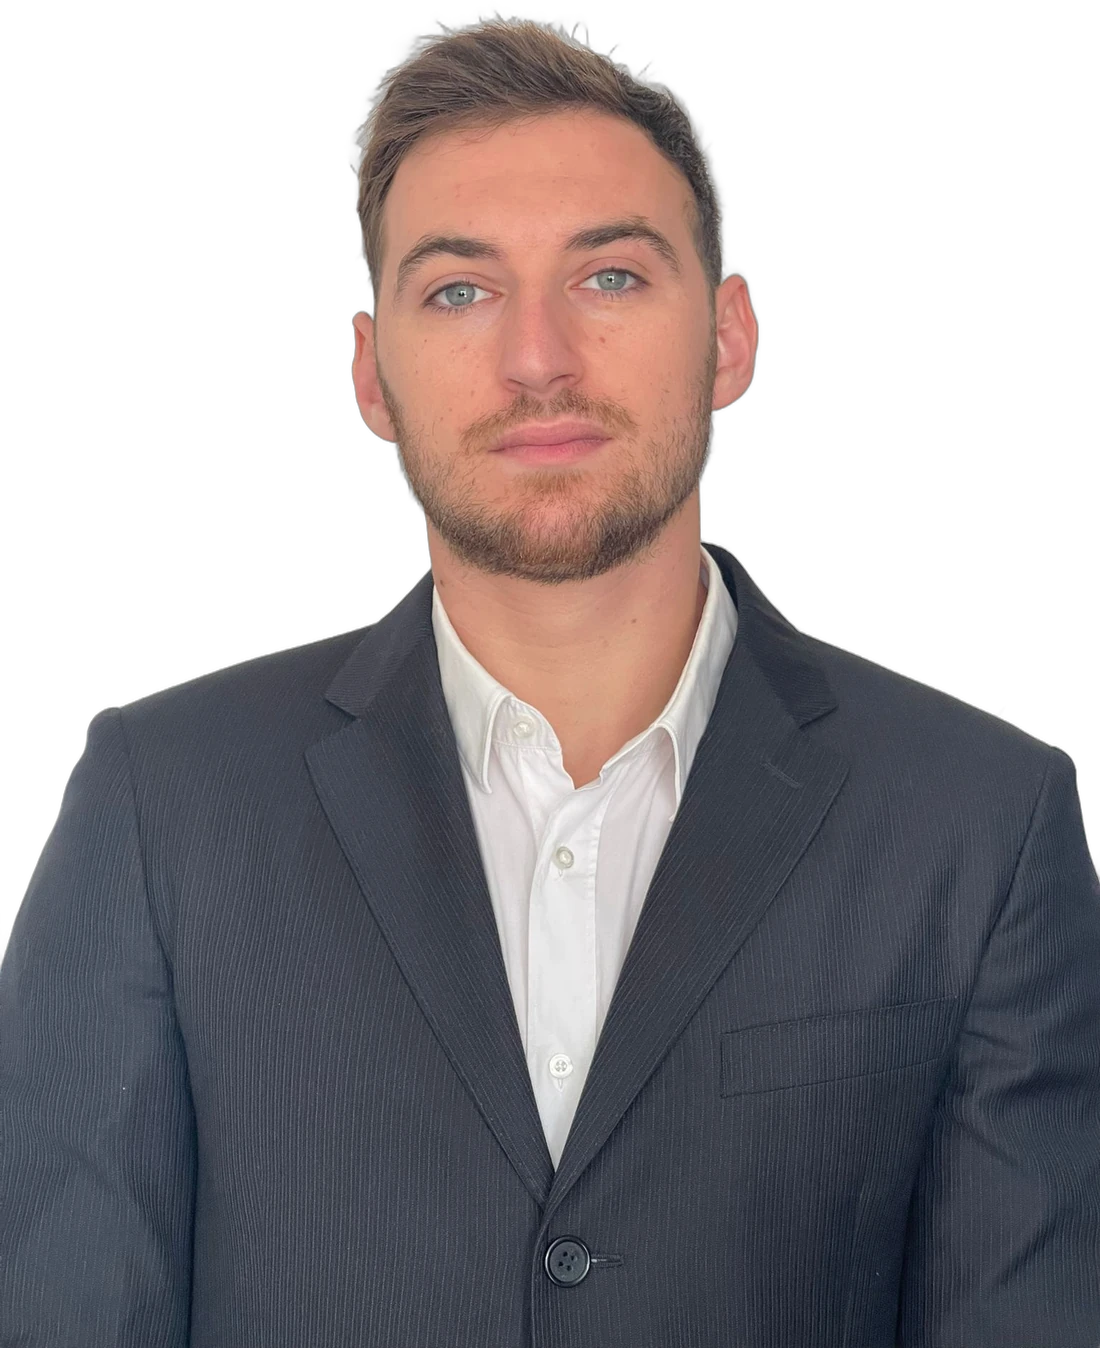
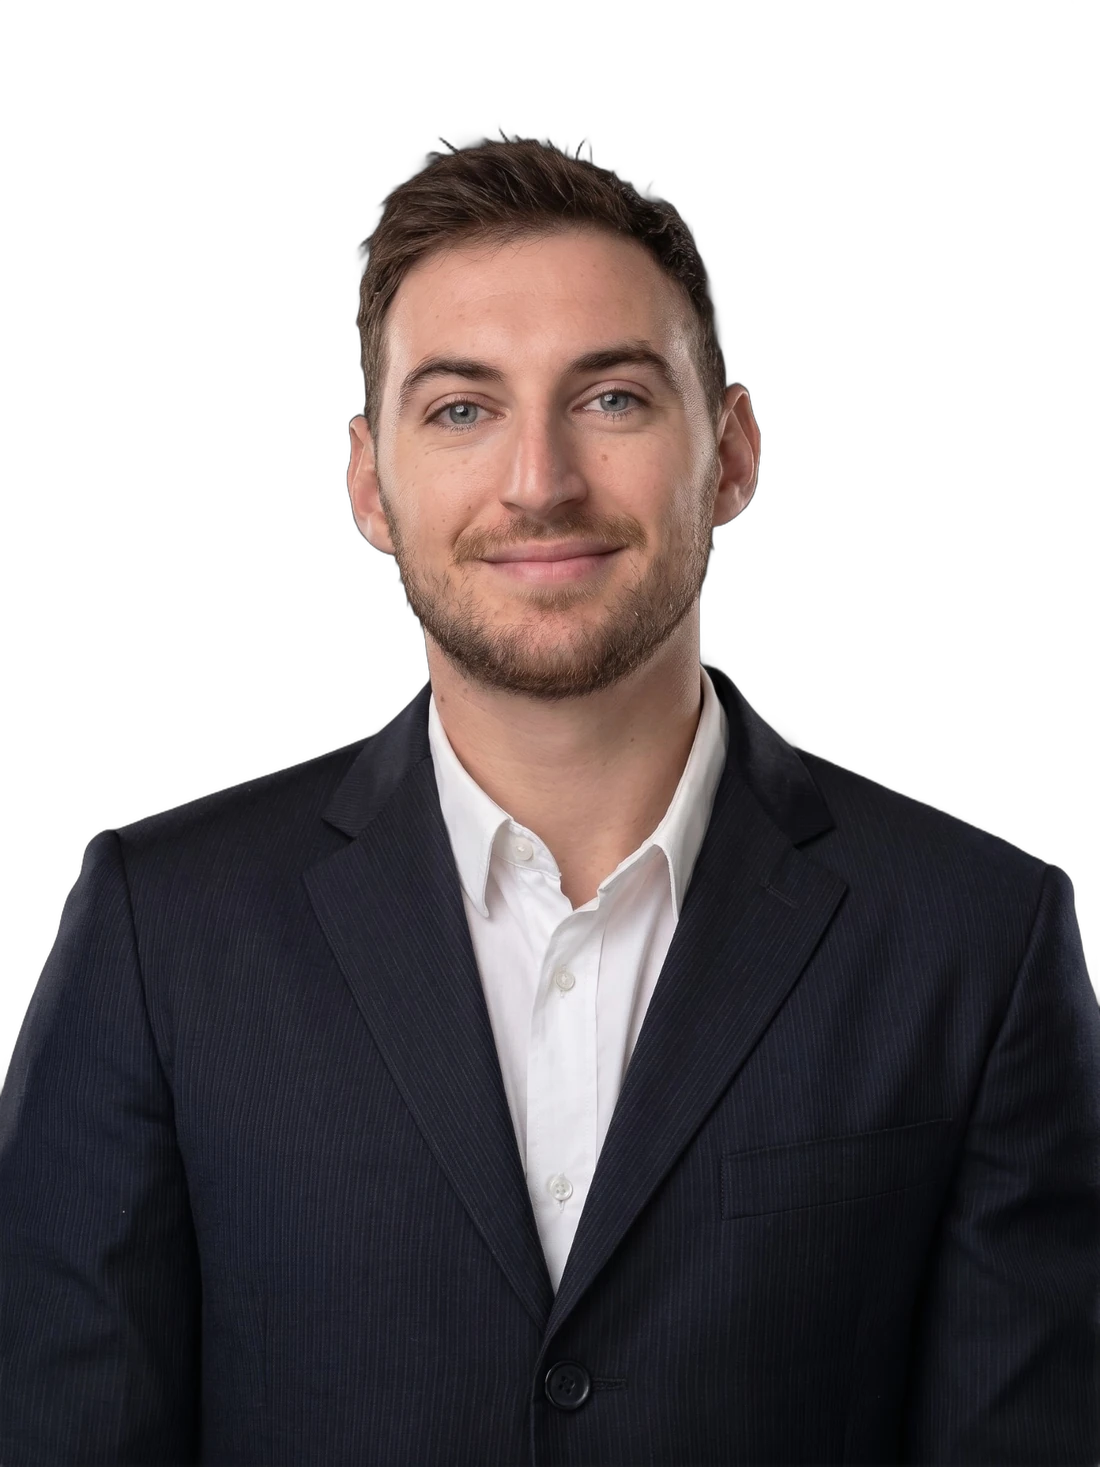
Nouvelle photo de profil (studio, fond noir)

diff --git a/index.html b/index.html
@@ -30,7 +30,7 @@
       <span class="line n2"><span>Rousselot</span></span>
     </h1>
     <figure class="hero-portrait" aria-hidden="true">
-      <img src="assets/img/portrait.webp" alt="" width="1100" height="1348">
+      <img src="assets/img/portrait.webp?v=58edf367" alt="" width="1100" height="1467">
     </figure>
     <p class="tagline rv">De sous-officier de gendarmerie <em>à l'ingénierie biomédicale.</em></p>
     <div class="hero-foot">

diff --git a/build.py b/build.py
@@ -53,6 +53,10 @@ def sec_head(num, title, note=""):
             f'<h2 class="sec-title">{lines(e(title))}</h2>{note_html}</header>')
 
 
+import hashlib  # noqa: E402
+with open(os.path.join(HERE, "assets", "img", "portrait.webp"), "rb") as _fh:
+    PORTRAIT_V = hashlib.md5(_fh.read()).hexdigest()[:8]
+
 ARROW = '<svg class="arr" viewBox="0 0 24 24" aria-hidden="true"><path d="M5 19L19 5M8 5h11v11" fill="none" stroke="currentColor" stroke-width="1.6"/></svg>'
 
 # ------------------------------------------------------------------ hero
@@ -73,7 +77,7 @@ hero = f"""
       <span class="line n2"><span>Rousselot</span></span>
     </h1>
     <figure class="hero-portrait" aria-hidden="true">
-      <img src="assets/img/portrait.webp" alt="" width="1100" height="1348">
+      <img src="assets/img/portrait.webp?v={PORTRAIT_V}" alt="" width="1100" height="1467">
     </figure>
     <p class="tagline rv">De sous-officier de gendarmerie <em>à l'ingénierie biomédicale.</em></p>
     <div class="hero-foot">
